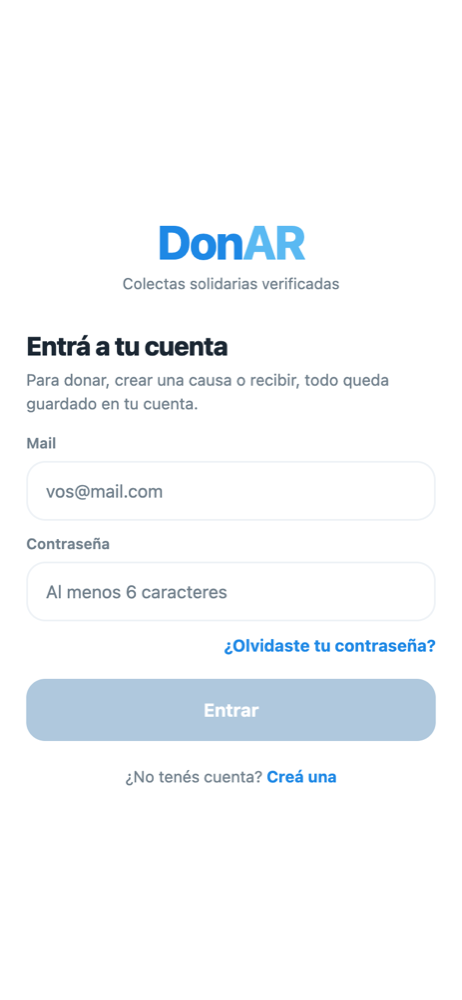
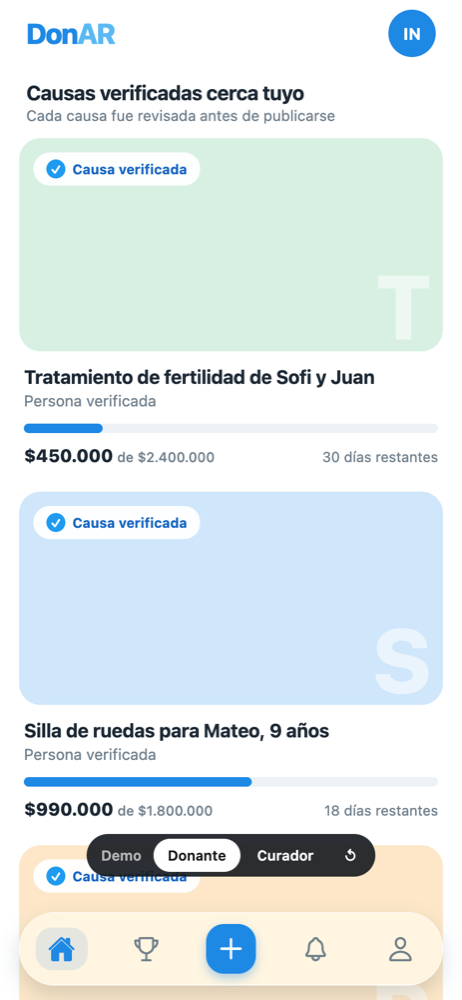
DonAR: demo sin cuenta y captura del feed

diff --git a/proyectos/donar.html b/proyectos/donar.html
@@ -37,9 +37,9 @@
     <h1>Colectas solidarias donde la confianza es el producto</h1>
     <p class="lede">Publicás tu necesidad, un curador la verifica antes de que salga, donás directo a la persona y ves a dónde fue cada peso. Lo construí de la idea a un POC con datos reales: producto, diseño, código, legales y go-to-market.</p>
     <p class="cta-row"><a class="btn" href="https://gaston-perez-art.github.io/donAR/" target="_blank" rel="noopener">Probar la demo ↗</a><a class="btn btn-ghost" href="https://github.com/gaston-perez-art/donAR" target="_blank" rel="noopener">Código ↗</a></p>
-    <p class="note">La demo pide crear una cuenta. Es a propósito: en donAR la identidad es obligatoria, porque todo se ata a una persona real.</p>
+    <p class="note">La demo funciona con datos de ejemplo guardados en tu navegador, sin crear cuenta. Podés donar, confirmar una transferencia como dueño de una causa y aprobar causas como curador. En la app real la identidad es obligatoria.</p>
   </header>
-  <div class="cs-hero w-wide"><div class="phone"><img src="../img/donar.png" alt="Pantalla de ingreso de donAR" loading="lazy" width="390" height="844"></div></div>
+  <div class="cs-hero w-wide"><div class="phone"><img src="../img/donar.png" alt="Feed de causas verificadas de donAR" loading="lazy" width="390" height="844"></div></div>
   <div class="w">
     <dl class="meta"><div><dt>Rol</dt><dd>Fundador y Product Builder. Todo</dd></div><div><dt>Estado</dt><dd>POC funcionando, iOS, Android y web</dd></div><div><dt>Stack</dt><dd>React Native · Expo · TypeScript · Supabase</dd></div><div><dt>Documentos</dt><dd>Paper fundacional, go-to-market, modelo de amenaza, privacidad y términos</dd></div></dl>
     
@@ -70,7 +70,7 @@
 <div class="tbl"><table><thead><tr><th>Hipótesis</th><th>Métrica</th></tr></thead><tbody><tr><td>Hay personas dispuestas a exponer su necesidad y pasar por verificación</td><td>Causas creadas y porcentaje que completa la verificación</td></tr><tr><td>La gente dona a causas verificadas de desconocidos</td><td>Conversión de visitante a donante y causas que llegan a la meta</td></tr><tr><td>El reconocimiento retiene por la causa</td><td>Donantes que vuelven a aportar a una segunda causa</td></tr></tbody></table></div>
 <p>Si las tres dan señal a baja escala, hay producto. Si no, se aprendió barato.</p>
 <h2>Qué construí</h2>
-<ul class="list"><li>Feed de causas verificadas y panel de curaduría, donde un humano revisa la evidencia antes de publicar.</li><li>Donación por transferencia con comprobante, confirmación del beneficiado y auto-confirmación a las 48 horas.</li><li>Ranking mensual, medallas y tours de onboarding.</li><li>Mercado Pago integrado y apagado: se prende cuando exista el split de pagos y el OK legal.</li><li>Versión web desde el mismo código, para que cualquiera la pruebe sin instalar nada.</li></ul></div>
+<ul class="list"><li>Feed de causas verificadas y panel de curaduría, donde un humano revisa la evidencia antes de publicar.</li><li>Donación por transferencia con comprobante, confirmación del beneficiado y auto-confirmación a las 48 horas.</li><li>Ranking mensual, medallas y tours de onboarding.</li><li>Mercado Pago integrado y apagado: se prende cuando exista el split de pagos y el OK legal.</li><li>Versión web desde el mismo código, con un modo demo que reemplaza la base por datos de ejemplo para que cualquiera la pruebe sin instalar nada.</li></ul></div>
     
     
   </div>

diff --git a/src/contenido.js b/src/contenido.js
@@ -177,13 +177,13 @@ const CASOS = [
     nombre: 'donAR',
     periodo: '2026',
     estado: ['poc', 'Demo web en vivo'],
-    imagen: { src: 'img/donar.png', alt: 'Pantalla de ingreso de donAR' },
+    imagen: { src: 'img/donar.png', alt: 'Feed de causas verificadas de donAR' },
     corto: 'Colectas solidarias persona a persona, donde la confianza es el producto.',
     titulo: 'Colectas solidarias donde la confianza es el producto',
     bajada:
       'Publicás tu necesidad, un curador la verifica antes de que salga, donás directo a la persona y ves a dónde fue cada peso. Lo construí de la idea a un POC con datos reales: producto, diseño, código, legales y go-to-market.',
     links: [['Probar la demo', 'https://gaston-perez-art.github.io/donAR/'], ['Código', 'https://github.com/gaston-perez-art/donAR']],
-    nota: 'La demo pide crear una cuenta. Es a propósito: en donAR la identidad es obligatoria, porque todo se ata a una persona real.',
+    nota: 'La demo funciona con datos de ejemplo guardados en tu navegador, sin crear cuenta. Podés donar, confirmar una transferencia como dueño de una causa y aprobar causas como curador. En la app real la identidad es obligatoria.',
     meta: [
       ['Rol', 'Fundador y Product Builder. Todo'],
       ['Estado', 'POC funcionando, iOS, Android y web'],
@@ -211,7 +211,7 @@ const CASOS = [
         'Donación por transferencia con comprobante, confirmación del beneficiado y auto-confirmación a las 48 horas.',
         'Ranking mensual, medallas y tours de onboarding.',
         'Mercado Pago integrado y apagado: se prende cuando exista el split de pagos y el OK legal.',
-        'Versión web desde el mismo código, para que cualquiera la pruebe sin instalar nada.',
+        'Versión web desde el mismo código, con un modo demo que reemplaza la base por datos de ejemplo para que cualquiera la pruebe sin instalar nada.',
       ]],
     ],
   },

diff --git a/index.html b/index.html
@@ -83,7 +83,7 @@
 <section id="proyectos" class="w-wide sec">
   <div class="sec-head"><p class="kicker">02 · Proyectos</p><h2 class="h2">Lo que construyo con mis manos</h2><p class="muted">Cinco productos de punta a punta. Cada uno resuelve un problema real de alguien que conozco, y cada uno tiene una decisión que lo define.</p></div>
   <div class="projs"><a class="proj rev" href="proyectos/donar.html">
-  <div class="proj-media"><div class="phone"><img src="img/donar.png" alt="Pantalla de ingreso de donAR" loading="lazy" width="390" height="844"></div></div>
+  <div class="proj-media"><div class="phone"><img src="img/donar.png" alt="Feed de causas verificadas de donAR" loading="lazy" width="390" height="844"></div></div>
   <div class="proj-body">
     <div class="proj-top"><h3>donAR</h3><span class="badge poc">Demo web en vivo</span></div>
     <p>Colectas solidarias persona a persona, donde la confianza es el producto.</p>
